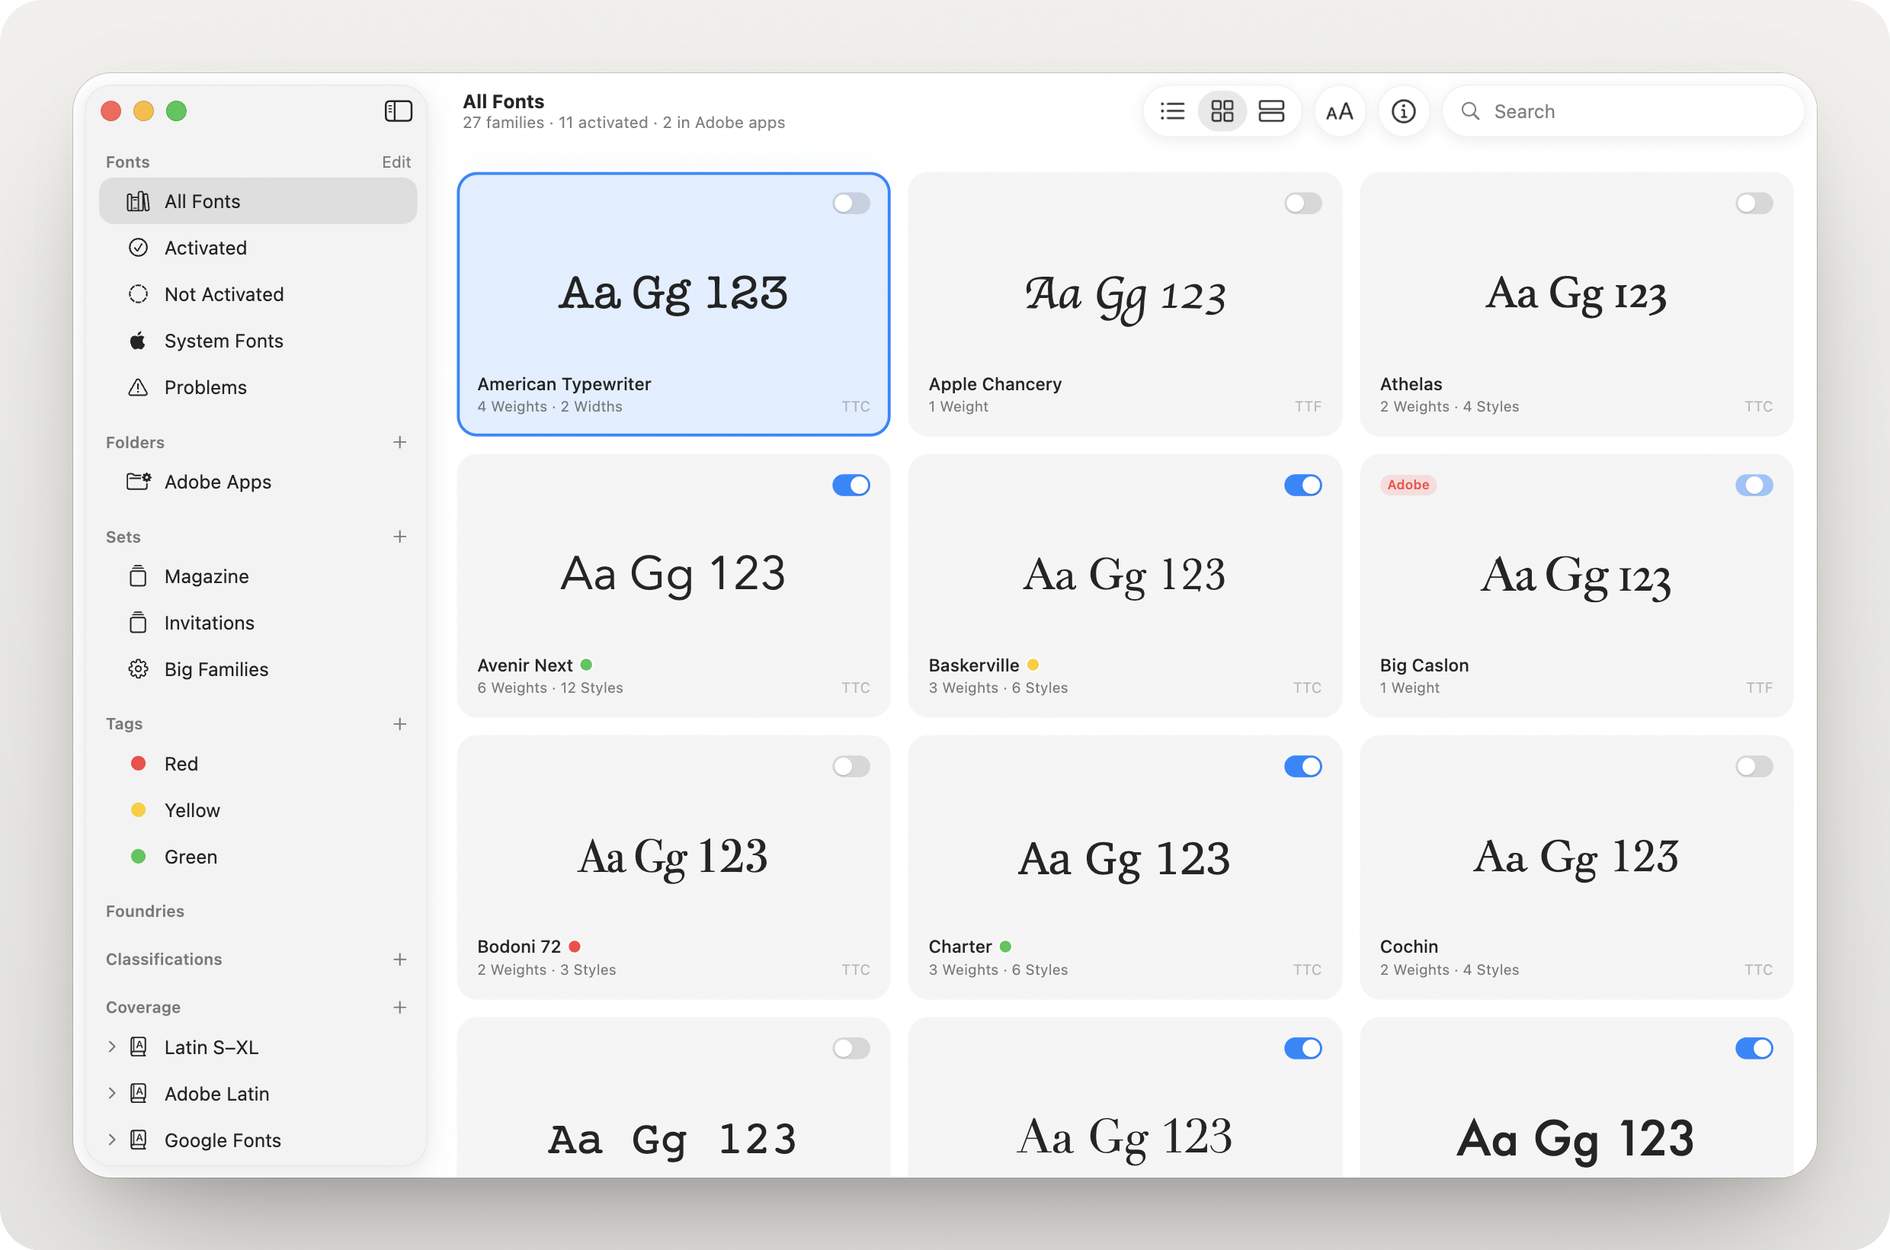
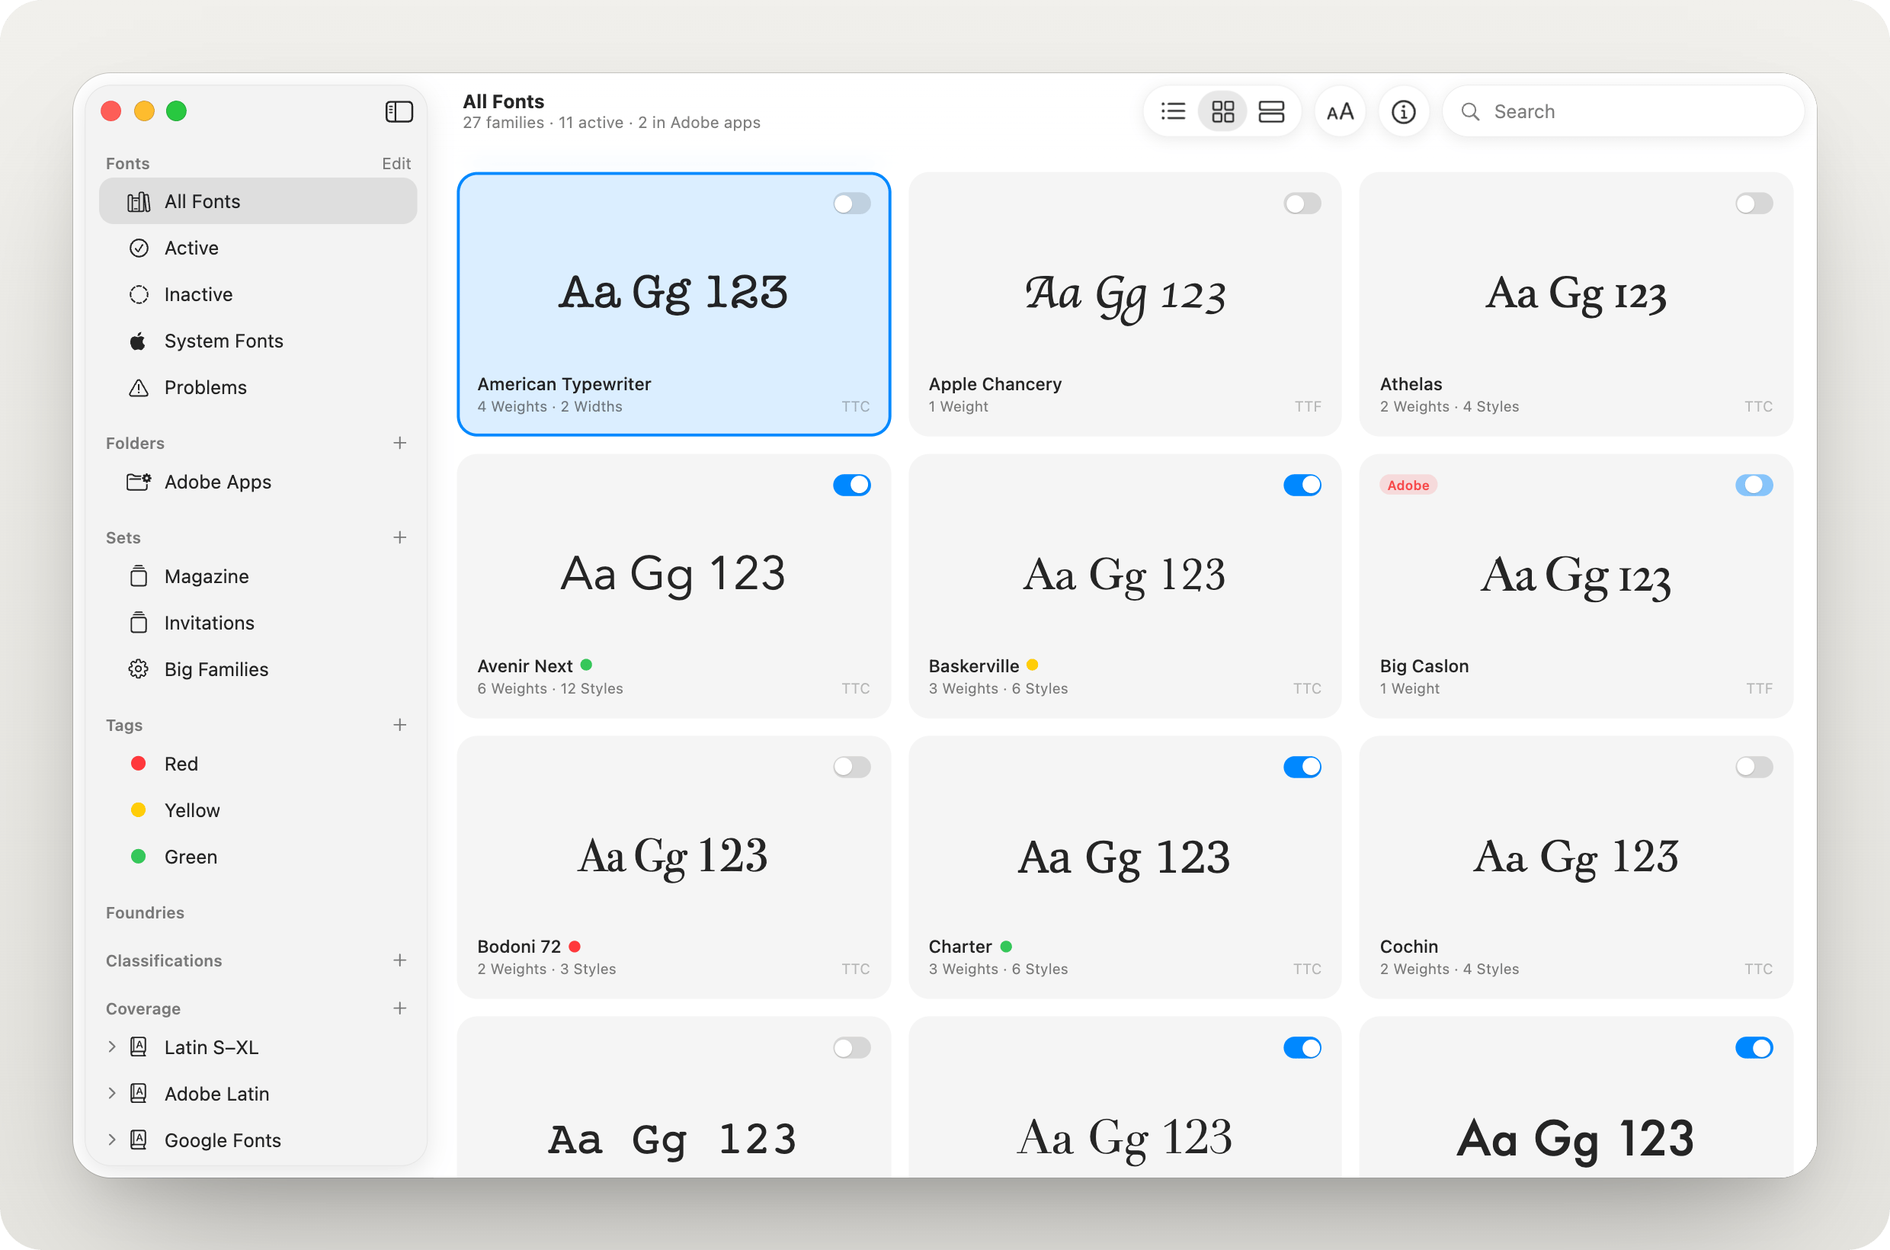
Call fonts that are on active and those that are off inactive everywhere, as font pages and Settings → Folders already did, rather than activated and not activated

diff --git a/Sources/Cicero/Browser/BrowserView.swift b/Sources/Cicero/Browser/BrowserView.swift
@@ -57,8 +57,8 @@ struct BrowserView: View {
         if let progress = model.coverageProgress, dependsOnCoverage {
             return "\(count) · checking characters, \(progress.done.formatted()) of \(progress.total.formatted())"
         }
-        var parts = [count, "\(families.count(where: \.hasActive).formatted()) activated"]
-        // On in one app only (like Adobe's fonts folder): neither activated nor not, so counted apart.
+        var parts = [count, "\(families.count(where: \.hasActive).formatted()) active"]
+        // On in one app only (like Adobe's fonts folder): neither active nor inactive, so counted apart.
         let apps = families.compactMap { if case .appOnly(let app) = $0.state { app } else { nil } }
         if !apps.isEmpty {
             let place = Set(apps).count == 1 ? FaceState.appDescription(apps[0]) : "one app only"
@@ -230,14 +230,14 @@ private struct EmptyBrowser: View {
             }
         case .inactive:
             ContentUnavailableView {
-                Label("Everything Is Activated", systemImage: "checkmark.circle")
+                Label("Everything Is Active", systemImage: "checkmark.circle")
             } description: {
                 Text("Every font in your library is turned on. Add a folder of fonts to keep more here without activating them.")
             } actions: {
                 Button("Add Folder") { model.presentAddFolderPanel() }
             }
         case .active:
-            ContentUnavailableView("Nothing Activated", systemImage: "circle.dashed",
+            ContentUnavailableView("Nothing Active", systemImage: "circle.dashed",
                                    description: Text("Turn a font on and it shows up here."))
         case .set:
             ContentUnavailableView("Empty Set", systemImage: "square.stack",

diff --git a/Sources/Cicero/Model/AppModel+Actions.swift b/Sources/Cicero/Model/AppModel+Actions.swift
@@ -493,8 +493,8 @@ extension AppModel {
     var libraryRows: [SidebarRow] {
         let rows = [
             SidebarRow(key: "library.all", title: "All Fonts", icon: "books.vertical", item: .all),
-            SidebarRow(key: "library.active", title: "Activated", icon: "checkmark.circle", item: .active),
-            SidebarRow(key: "library.inactive", title: "Not Activated", icon: "circle.dashed", item: .inactive),
+            SidebarRow(key: "library.active", title: "Active", icon: "checkmark.circle", item: .active),
+            SidebarRow(key: "library.inactive", title: "Inactive", icon: "circle.dashed", item: .inactive),
             // With system fonts off in Settings, they're nowhere, this item included.
             data.showSystemFonts ? SidebarRow(key: "library.system", title: "System Fonts", icon: "apple.logo", item: .system) : nil,
             SidebarRow(key: "library.problems", title: "Problems", icon: "exclamationmark.triangle", item: .problems, badge: problems.count { !$0.kind.isMinor }),

diff --git a/Sources/Cicero/Windows/QuickLook.swift b/Sources/Cicero/Windows/QuickLook.swift
@@ -362,11 +362,11 @@ private struct FamilyQuickLook: View {
         return parts.joined(separator: " · ")
     }
 
-    /// The styles' status when they share one ("Not activated", "Active until Cicero quits"), else how many are on.
+    /// The styles' status when they share one ("Inactive", "Active until Cicero quits"), else how many are on.
     private var status: String {
         let labels = Set(family.faces.map(\.state.label))
         if labels.count == 1, let label = labels.first { return label }
-        return family.activeCount == family.faces.count ? "Active" : "\(family.activeCount) of \(family.faces.count) activated"
+        return family.activeCount == family.faces.count ? "Active" : "\(family.activeCount) of \(family.faces.count) active"
     }
 }
 

diff --git a/Sources/Cicero/Components/Components.swift b/Sources/Cicero/Components/Components.swift
@@ -112,7 +112,7 @@ struct ActivationSwitch: View {
         MiniSwitch(position: model.position(of: family), isEnabled: isEnabled) { model.toggle(family) }
             .help(help)
             .accessibilityElement()
-            .accessibilityLabel("Activated")
+            .accessibilityLabel("Active")
             .accessibilityValue(accessibilityValue)
             .accessibilityAddTraits(.isToggle)
             .accessibilityAction { if isEnabled { model.toggle(family) } }

diff --git a/Sources/Cicero/Windows/SmartSetEditor.swift b/Sources/Cicero/Windows/SmartSetEditor.swift
@@ -218,9 +218,9 @@ private struct RuleRow: View {
 
     private static func statusTitle(_ value: String) -> String {
         switch value {
-        case "active": "Activated"
-        case "partial": "Partly Activated"
-        case "inactive": "Not Activated"
+        case "active": "Active"
+        case "partial": "Partly Active"
+        case "inactive": "Inactive"
         case "appOnly": "Active in Apps Only"
         default: "Installed with macOS"
         }

diff --git a/Sources/CiceroCore/Problems/Problems.swift b/Sources/CiceroCore/Problems/Problems.swift
@@ -230,7 +230,7 @@ public enum ProblemDetector {
             if let folder = folders.first(where: { path.hasPrefix($0.path + "/") }) {
                 return folder.appName.map { "Active in \(FaceState.appDescription($0))" } ?? "In \(folder.displayName)"
             }
-            return "Not activated"
+            return "Inactive"
         }
 
         /// Where a missing file may only be out of reach for now: "on “Server”, which isn’t connected" for a disk

diff --git a/Sources/Cicero/Windows/ToolboxWindow.swift b/Sources/Cicero/Windows/ToolboxWindow.swift
@@ -96,7 +96,7 @@ private struct TextTab: View {
             Stepper(value: $maxMissing, in: 0...20) {
                 Text("Include fonts missing up to \(maxMissing) \(maxMissing == 1 ? "character" : "characters")")
             }
-            Toggle("Activated only", isOn: $activatedOnly)
+            Toggle("Active only", isOn: $activatedOnly)
             Spacer()
             Text(summary).foregroundStyle(.secondary).monospacedDigit()
         }

diff --git a/Sources/Cicero/Browser/FontList.swift b/Sources/Cicero/Browser/FontList.swift
@@ -9,7 +9,7 @@ nonisolated struct FontRow: Identifiable, Sendable {
     let styles: Int
     let classification: String
     let format: String
-    /// Activated, then partly, then app-only, then off.
+    /// Active, then partly, then app-only, then off.
     let activation: Int
     /// What each shown character set column says; nothing while the family is still being checked.
     let coverage: [FontListColumn: CoverageCell]

diff --git a/Sources/CiceroCore/Model/Font.swift b/Sources/CiceroCore/Model/Font.swift
@@ -206,7 +206,7 @@ public enum FaceState: Hashable, Sendable {
         case .active(.temporary(.untilQuit)): "Active until Cicero quits"
         case .active(.temporary(.whileAppsRun)): "Active while its app is open"
         case .active: "Active"
-        case .inactive: "Not activated"
+        case .inactive: "Inactive"
         case .appOnly(let app): "Active in \(FaceState.appDescription(app))"
         }
     }

diff --git a/docs/SPEC.md b/docs/SPEC.md
@@ -30,11 +30,11 @@ a toggle that's on and a button being pressed.
   section header; unchecked items are dimmed, and disappear when you click Done. Sections and character set
   groups stay open or closed as outside it, and open and close the same way (one state for both). Switching
   isn't animated: hundreds of rows animating in and out ran into each other.
-- Fixed rows: All Fonts (books.vertical), Activated (checkmark.circle), Not Activated (circle.dashed),
+- Fixed rows: All Fonts (books.vertical), Active (checkmark.circle), Inactive (circle.dashed),
   System Fonts (apple.logo, only while system fonts are shown), Problems (exclamationmark.triangle, count badge).
 - Sections, each collapsible and hideable:
   - **Folders** (+ adds folders). The folders Adobe apps load fonts from by themselves — /Library/Application Support/Adobe/Fonts, ~/Library/Application Support/Adobe/Fonts (all Adobe apps) and the Fonts folder next to any Adobe app, like /Applications/Adobe InDesign 2026/Fonts (that app only) — are one "Adobe Apps" item, shown while it has fonts (row menu: Reveal in Finder). They aren't in the user's folders: Settings → Folders → "Show fonts installed for Adobe apps" (on by default) switches them; adding one of them with + turns the switch on. Row menu for the user's folders: Reveal in Finder; "Fonts in This Folder" picker —
-    "Not activated until you activate them" / "Active in Adobe apps" / a custom app name; Remove Folder from Library.
+    "Inactive" / "Active" / "Active in Adobe apps" / "Active in Specific App" (asks for its name); Remove Folder from Library.
     Cicero's own Deactivated folder appears here when it has fonts, and so does "Added Fonts" (doc), the
     files added one at a time (see Opening and adding files; row menu: Reveal in Finder, which selects them).
   - **Sets** (+ menu: New Set, New Smart Set, New Application Set). Sets (square.stack), application sets (app.badge.checkmark) and smart sets (gearshape). A set's menu has Activate with Apps (Edit Apps once it has some).
@@ -76,7 +76,7 @@ a toggle that's on and a button being pressed.
 
 ## Browser
 
-- Title = selected item's name (several: "Serif and Script"); subtitle "1.298 families · 716 activated" (or "… · checking characters, 400 of 1.298" while coverage is computed and the list depends on it).
+- Title = selected item's name (several: "Serif and Script"); subtitle "1.298 families · 716 active" (or "… · checking characters, 400 of 1.298" while coverage is computed and the list depends on it).
 - Toolbar, left to right, each in a glass capsule of its own, 8 pt apart like the Info button and the search field
   (ToolbarCapsule: AppKit merges neighbouring items into one capsule, and ToolbarSpacer(.fixed) leaves 16 pt): view switcher
   [List list.bullet | Grid square.grid.2x2 | Specimens rectangle.grid.1x2] · [Preview Options textformat.size] · [Info info.circle] · native search field.
@@ -114,7 +114,7 @@ a toggle that's on and a button being pressed.
 - Tag dots: the family's tags that have a colour, in the order the tags were made, as 8 pt circles overlapping like the Finder's.
 - Selection: click, ⌘-click, ⇧-click, ⌘A, arrow keys (↑/↓ in the list and specimens; in the grid ←/→ a tile and ↑/↓ a row; ⇧ extends), Esc clears (closing Quick Look first when it's open), and so does a click between families or below the last, typing a letter jumps, Return or double-click opens the font page, Space opens Quick Look; rows are draggable as family names. Right-click → family menu.
 - Search matches a family's name or foundry, or a style's PostScript name, designer or vendor ID.
-- Empty states per selection (no folders or added fonts → Add Folder, Add Fonts; nothing activated; empty set; smart set with no matches → Edit Smart Set; character set still being checked; search with no results).
+- Empty states per selection (no folders or added fonts → Add Folder, Add Fonts; nothing active; empty set; smart set with no matches → Edit Smart Set; character set still being checked; search with no results).
 - A small glass capsule bottom-right while a scan takes longer than 0.4 s ("Finding fonts", "Identifying fonts 200 of 4000"); quicker scans show nothing.
 - Selecting Problems shows the Problems view instead of a list.
 - Status tags (small capsules): System; Partly active (orange); app name e.g. "Adobe" (red) for app-only; "Temporary" (blue) for temporarily active; "App Set" (blue) for on for an application set.
@@ -264,7 +264,7 @@ and rounded to the step; ↑/↓ step it, ten steps with ⇧), as does the font 
 ## Sets, smart sets, character sets
 
 - Sets: ordered lists of family names, optionally with apps (application sets, see Activation). The apps sheet ("Activate “Name” with Apps"): the apps with their icons, "Open" next to running ones, − to remove, Add App (an open panel in /Applications), and a line about opening Cicero at login. Tags: names in the order they were made, family → tags, tag → colour (Finder's seven or none; New Tag starts on the first no tag has, red again once all are taken; a colour a later version adds loads as none). A new library (no user-data.json and no library.json to import) starts with Red, Yellow and Green tags in their colours. Given from the family menu's Tags ▸, the Info panel, or by dropping families on a tag.
-- Smart sets: name, match all/any, rules (field · comparison · value): Name (contains / doesn’t contain / begins with / is), Foundry (is / is not / contains), Classification, Tag (has / doesn’t have), Set (is in / isn’t in), Folder (is in / isn’t in; Adobe Apps and Added Fonts too), Status (Activated / Partly Activated / Not Activated / Active in Apps Only / Installed with macOS), Kind (Variable / Monospaced / Has Italics), Format, Number of Styles (is / is more than / is less than), Language (is supported / isn’t supported; Hyperglot languages, searchable picker defaulting to the user's language), Coverage (includes / doesn’t include), Date Added (is in the last / isn’t in the last N days). Editor sheet with live "N families match".
+- Smart sets: name, match all/any, rules (field · comparison · value): Name (contains / doesn’t contain / begins with / is), Foundry (is / is not / contains), Classification, Tag (has / doesn’t have), Set (is in / isn’t in), Folder (is in / isn’t in; Adobe Apps and Added Fonts too), Status (Active / Partly Active / Inactive / Active in Apps Only / Installed with macOS), Kind (Variable / Monospaced / Has Italics), Format, Number of Styles (is / is more than / is less than), Language (is supported / isn’t supported; Hyperglot languages, searchable picker defaulting to the user's language), Coverage (includes / doesn’t include), Date Added (is in the last / isn’t in the last N days). Editor sheet with live "N families match".
 - Character sets: built-in from Resources/CharacterSets.json (Latin S–XL; Adobe Latin 1–5; 38 Unicode blocks such as Basic Latin, Latin-1 Supplement, Latin Extended-A/B/Additional, IPA Extensions, Greek and Coptic, Cyrillic, General Punctuation, Currency Symbols — only their assigned, visible characters; Google Fonts Latin Kernel/Core/Plus/African, Cyrillic Core/Plus/Pro, Greek Core/Plus/Pro); custom sets (name + characters typed or pasted, U+ codes, 0x codes, ranges U+0100–U+017F). A family "has" a set when its regular upright face covers every character.
 - Settings → Coverage: groups with checkboxes (show in sidebar, all on by default), counts, summaries, credit links; "Your Coverage Sets" first, scrolling with the rest: rows with checkbox, count and Edit, + in the header, menu Edit Coverage Set / Delete Coverage Set; the editor has Delete for an existing set.
 
@@ -275,7 +275,7 @@ and rounded to the step; ↑/↓ step it, ten steps with ⇧), as does the font 
 
 ## Character Toolbox
 
-- Text: a field; lists families with every character (sample = the text in each font), count, "Include fonts missing up to N" stepper, "Activated only"; shows missing characters per row; double-click opens the family in the main window.
+- Text: a field; lists families with every character (sample = the text in each font), count, "Include fonts missing up to N" stepper, "Active only"; shows missing characters per row; double-click opens the family in the main window.
 - Languages: search (language, autonym or script), sort by speakers or name, list with speakers; selecting shows the language's characters and two sections: Fully Supported, Base Characters Only.
 
 ## Compare

diff --git a/help/getting-started.md b/help/getting-started.md
@@ -37,8 +37,8 @@ After that, Cicero checks which characters each font has, in the background. Lis
 
 The main window has three parts:
 
-- **The sidebar** on the left chooses what to show: **All Fonts**, **Activated**, **Not Activated**, **System Fonts** and **Problems**, then your **Folders**, **Sets**, **Tags**, **Foundries**, **Classifications** and **Coverage**. See [Organizing your library](organizing.md).
-- **The browser** in the middle shows the families of what you chose, as a list, a grid or specimens. The title is the sidebar item’s name, and the subtitle counts the families and how many are activated, like “1,298 families · 716 activated”. See [Browsing and previewing](browsing.md).
+- **The sidebar** on the left chooses what to show: **All Fonts**, **Active**, **Inactive**, **System Fonts** and **Problems**, then your **Folders**, **Sets**, **Tags**, **Foundries**, **Classifications** and **Coverage**. See [Organizing your library](organizing.md).
+- **The browser** in the middle shows the families of what you chose, as a list, a grid or specimens. The title is the sidebar item’s name, and the subtitle counts the families and how many are active, like “1,298 families · 716 active”. See [Browsing and previewing](browsing.md).
 - **The Info panel** on the right, shown with the **Info** button in the toolbar or **Fonts → Show Info** (⌘I), describes the selected font.
 
 Double-click a family to open its **font page**, with a large text to type into, its styles, its ligatures and its characters.
@@ -54,7 +54,7 @@ Keep fonts you don’t always need in folders of your own, and add those folders
 1. Choose **File → Add Folder** (⇧⌘O), or click **+** next to **Folders** in the sidebar.
 2. Pick one or more folders and click **Add**.
 
-Their fonts show up in your library without being activated: they’re listed under **Not Activated** until you turn them on. See [Folders](organizing.md#folders).
+Their fonts show up in your library without being activated: they’re listed under **Inactive** until you turn them on. See [Folders](organizing.md#folders).
 
 You can add single font files too, without adding the folder they’re in:
 

diff --git a/help/activating.md b/help/activating.md
@@ -109,7 +109,7 @@ Files in your Fonts folder are turned off before they move, so apps let go of th
 Cicero keeps the files it moves out of your Fonts folder and out of app font folders in its Deactivated folder, `~/Library/Application Support/Cicero/Deactivated`.
 
 - While it has fonts, the folder shows up as **Deactivated** under **Folders** in the sidebar.
-- Its fonts stay in your library, listed as not activated. Turn one on again whenever you like.
+- Its fonts stay in your library, listed as inactive. Turn one on again whenever you like.
 - To see the files, right-click **Deactivated** and choose **Reveal in Finder**.
 
 ## Fonts Cicero can’t turn off
@@ -128,7 +128,7 @@ Adobe apps load fonts from folders of their own, without installing them:
 - `/Library/Application Support/Adobe/Fonts` and `~/Library/Application Support/Adobe/Fonts`, for all Adobe apps
 - the Fonts folder next to an Adobe app, like `/Applications/Adobe InDesign 2026/Fonts`, for that app only
 
-Cicero lists the fonts in all of them together as **Adobe Apps** under **Folders**, while there are any. They show as active in those apps, with a red tag like **Adobe** or **InDesign**, instead of as not activated. To hide them, turn off **Show fonts installed for Adobe apps** in **Settings → Folders**.
+Cicero lists the fonts in all of them together as **Adobe Apps** under **Folders**, while there are any. They show as active in those apps, with a red tag like **Adobe** or **InDesign**, instead of as inactive. To hide them, turn off **Show fonts installed for Adobe apps** in **Settings → Folders**.
 
 ### The three-position switch
 
